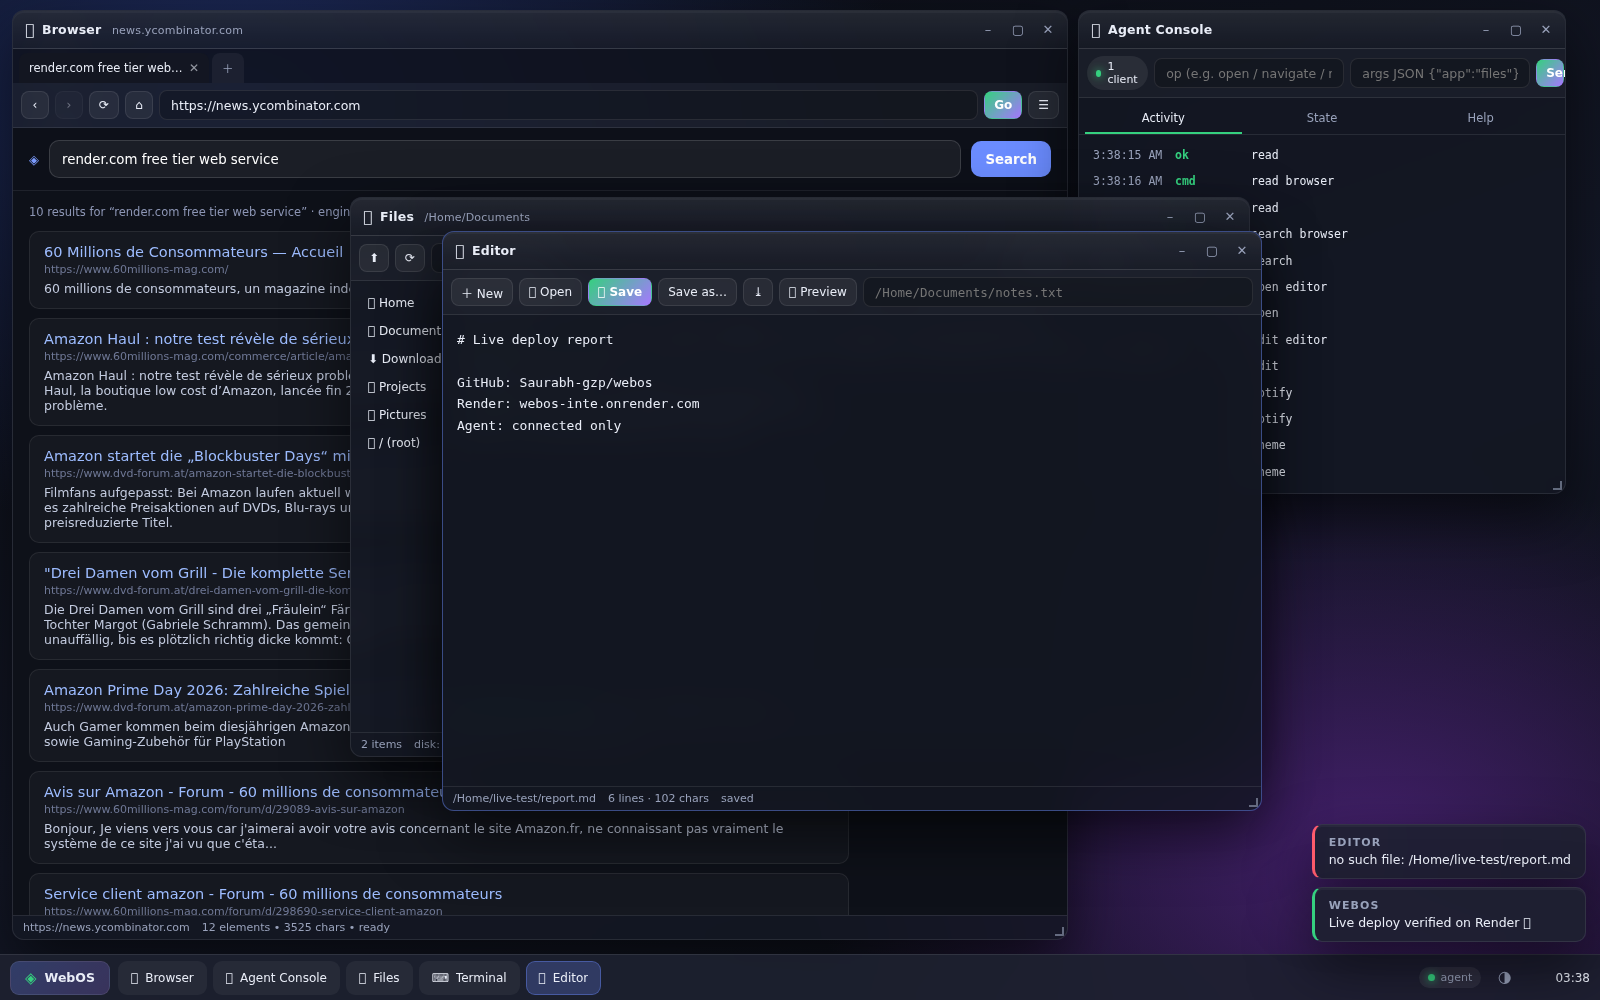
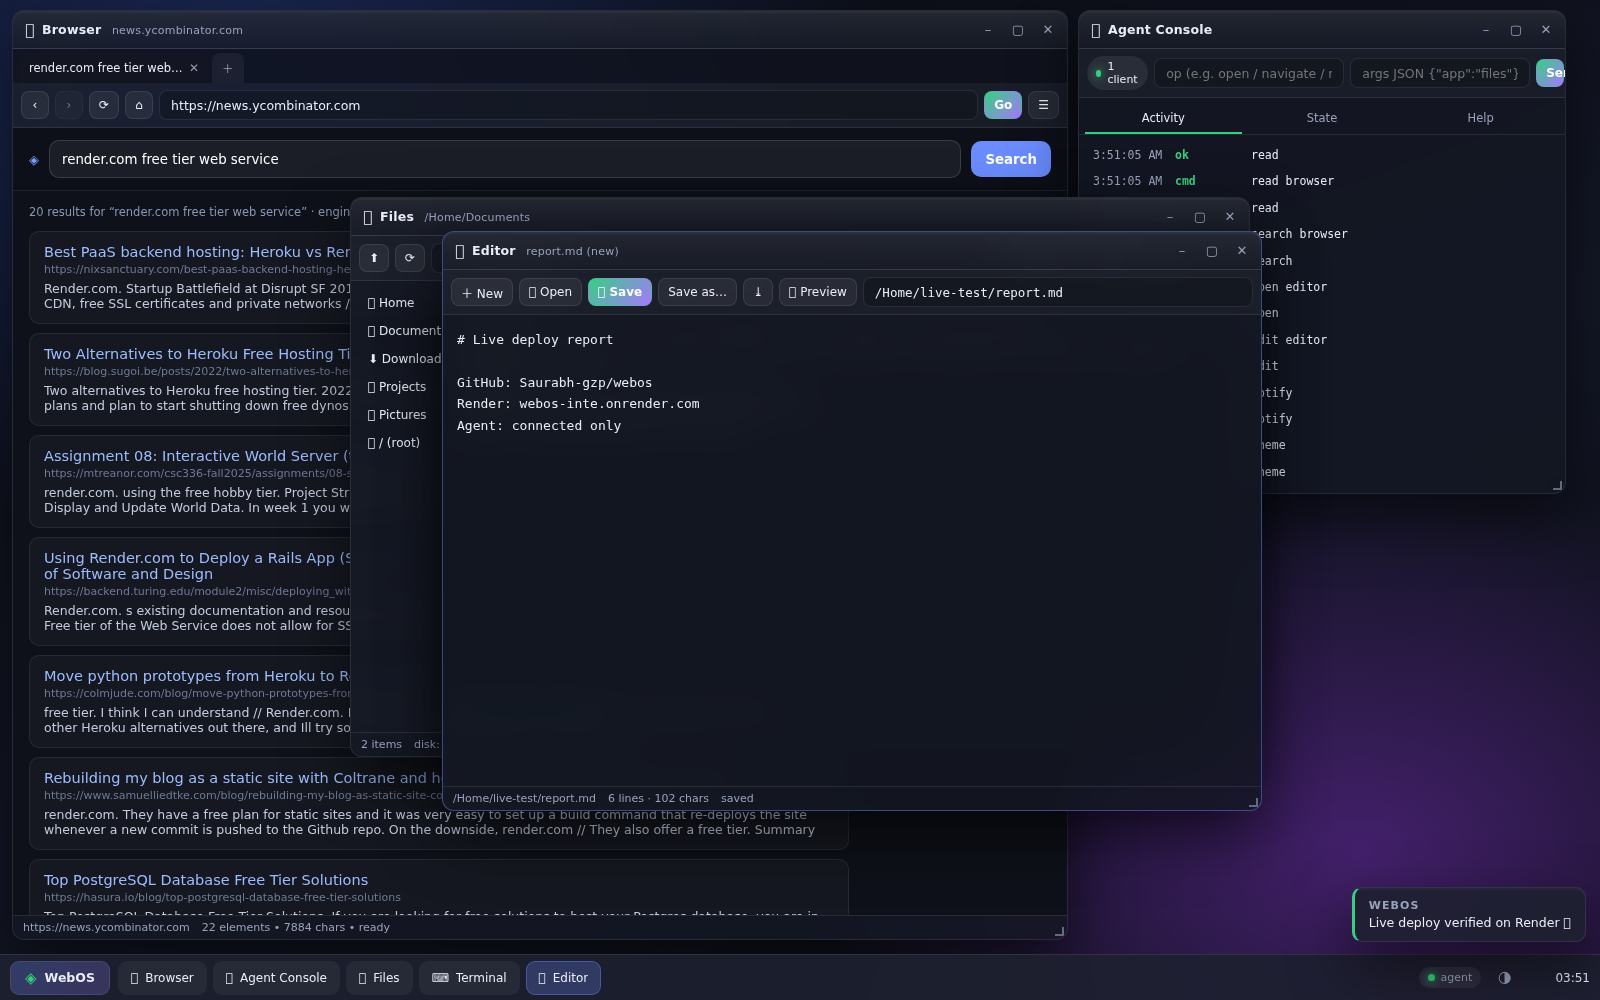
docs: document the multi-engine search stack and its relevance filter

diff --git a/AGENT-API.md b/AGENT-API.md
@@ -205,8 +205,11 @@ node tools/agent-cli.js shell "mkdir /Home/agent && ls /Home"
 * Kitni bhi site `iframe` me nahi chalti — jo sites `X-Frame-Options: DENY` bhejti hain
   (Google search, kuch banks, kuch govt sites) unka full UI proxy me bhi block ho sakta hai.
   Unke liye `read` / `extract` (server-side text) use karo — wo hamesha kaam karta hai.
-* Search engine fallback automatic hai: DuckDuckGo → Bing HTML → Bing RSS.
-  `GET /api/search?q=…` response me `engine` field dekho.
+* Search engine fallback automatic hai aur **cloud IPs (Render/Vercel) ke liye tuned** hai:
+  SearXNG pool → Marginalia → Bing HTML → Bing RSS → Brave → DuckDuckGo → Google News → Wikipedia.
+  Har engine ke results ek relevance filter se guzarte hain (junk/off-topic feed reject hota hai).
+  `GET /api/search?q=…` ke response me `engine` + `errors` fields dekho ki kaunsa chala.
+  Results 3 minute cache hote hain (`cached: true`), aur rate-limited SearXNG instance 10 min skip hota hai.
 * Har `click`/`type` ke baad page ka naya snapshot 200-1200ms me aata hai; `settle` arg se
   wait badha sakte ho (`{"op":"click","args":{"ref":5,"settle":2000}}`).
 * Agent Console app (desktop pe) me live activity dekho: kaunsi op aayi, kya result mila.
